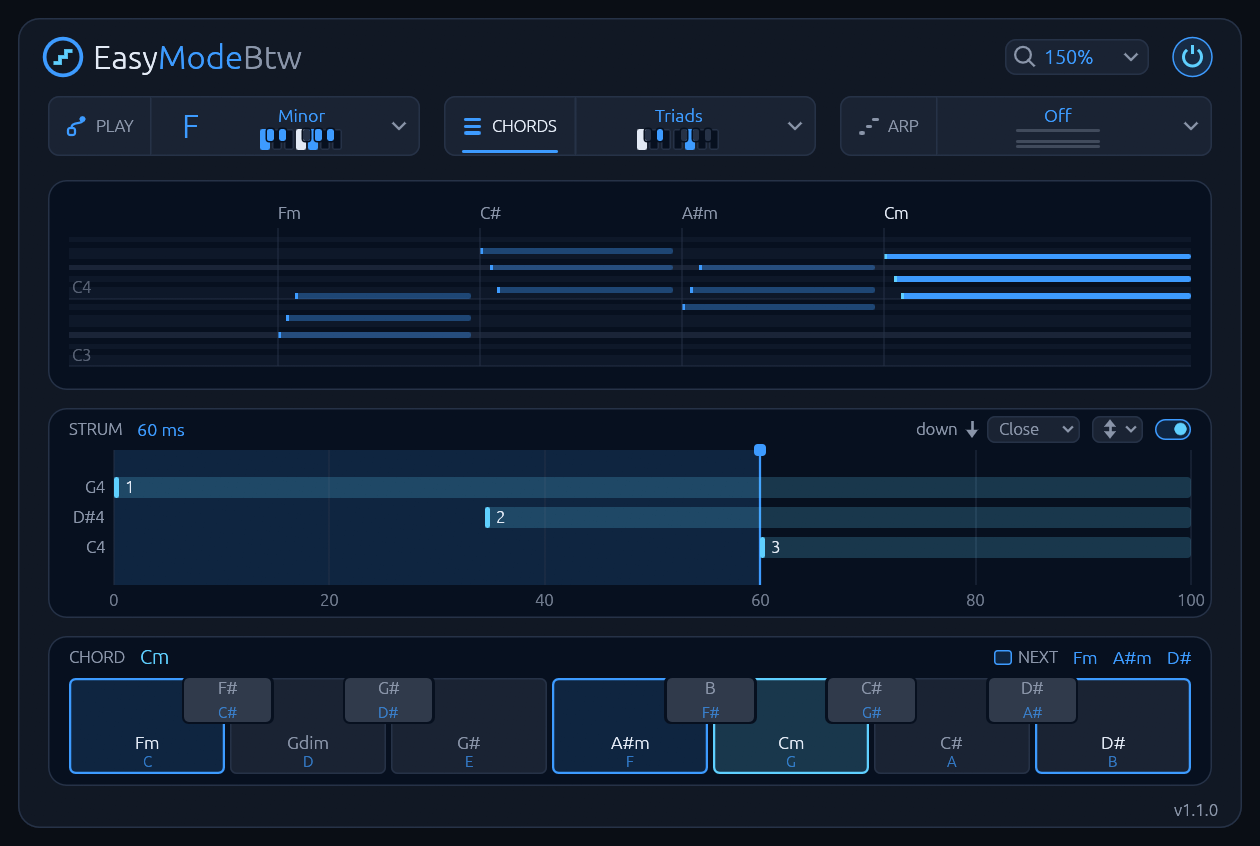
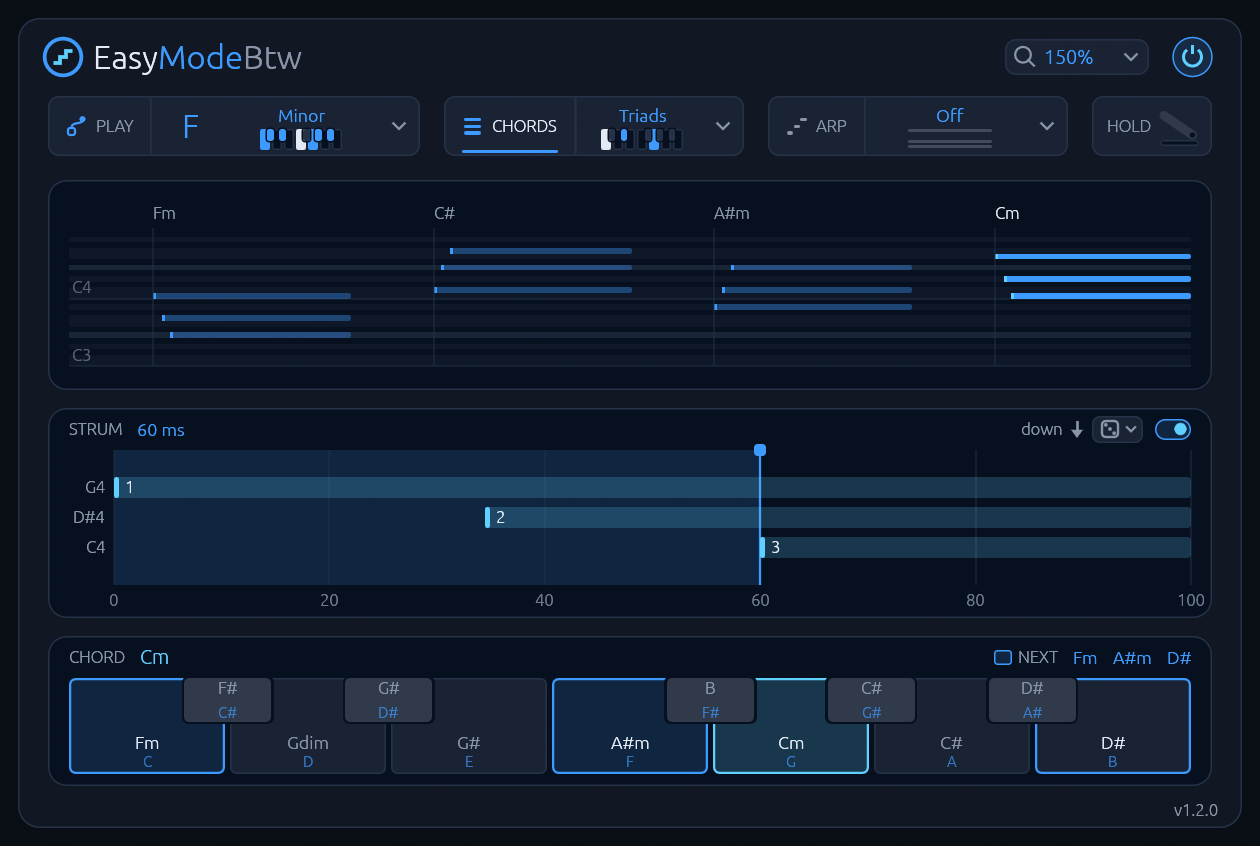
1.2.0: random strum, HOLD on every page, SWING, the selector lists
README and manual for 1.2.0. The three pages retaken, and new shots
of the PLAY, CHORDS and ARP selector lists in the manual.

diff --git a/manual.md b/manual.md
@@ -4,7 +4,7 @@
 the white keys play the notes of the scale you pick with its root on middle C, and each key can
 play a chord of the scale instead, strummed like a guitar or broken into an arpeggio on the beat.
 
-Version 1.1.0. To install it, see the [README](README.md).
+Version 1.2.0. To install it, see the [README](README.md).
 
 ## Getting started
 
@@ -23,11 +23,12 @@ PLAY page to see which notes every key sends.
 
 ## The controls
 
-The header holds the zoom select and the power switch. Below it one row holds three selectors:
-the key and scale, CHORDS and ARP. A click on a selector's icon or caption shows its page (PLAY,
-CHORDS or ARP), and a click on its value opens its list of tiles. The scales and chord sets have a
-little keyboard with their notes lit, the chord sets showing what they play on the key you last
-held; the arp orders have their stairs. Hover a tile and it performs. Under the row is the page.
+The header holds the zoom select and the power switch. Below it one row holds three selectors, the
+key and scale, CHORDS and ARP, and the HOLD pedal. A click on a selector's icon or caption shows its
+page (PLAY, CHORDS or ARP), and a click on its value opens its list of tiles. The scales and chord
+sets have a little keyboard with their notes lit, the chord sets showing what they play on the key
+you last held; the arp orders have their stairs. Hover a tile and it performs. Under the row is the
+page. Rest the pointer on any control and a tooltip says what it does.
 
 | Control | Range | Default | What it does |
 | --- | --- | --- | --- |
@@ -38,14 +39,14 @@ held; the arp orders have their stairs. Hover a tile and it performs. Under the 
 | **ARP** | Off, Up, Down, Up-Down, Converge, As Played, Chord, Random, Piano | Off | Off sends each key's note or chord at once; the others play it one note after another on the beat. |
 | **Strum switch** (CHORDS page) | On / Off | Off | Off, a chord's notes start together. |
 | **STRUM** (CHORDS page) | 0 to 100 ms | 20 ms | How long a three-note chord takes to strum, first note to last. Drag on the strum display to set it. |
-| **Strum direction** (CHORDS page) | Up and down, Up, Down | Up and down | Which way the strums go. |
-| **Strum voicing** (CHORDS page) | Close, Guitar | Close | How a strummed chord is laid out. |
+| **Strum direction** (CHORDS page) | Up and down, Up, Down, Random | Up and down | Which way the strums go. Random, the dice, tosses it for each strum. |
 | **RATE** (ARP page) | 1/4, 1/8., 1/8, 1/8T, 1/16, 1/16T, 1/32 | 1/16 | How far apart the arp's steps are. |
 | **RANGE** (ARP page) | 1 to 4 | 1 | How many times the run plays, each time higher. |
 | **STEP** (ARP page) | Octave, 2nd, 3rd, 4th, 5th, 6th | Octave | How far each repeat climbs: an octave, or that far up the scale, so it never leaves the key. |
 | **GATE LENGTH** (ARP page) | 5 to 100 % | 50 % | How long each note lasts, as a share of its step. 100 % lasts until the next note. |
-| **HOLD** (ARP page, the sustain pedal) | On / Off | Off | Let go and the arp plays on, until the next chord you play after letting every key go. |
-| **Rhythm shelf** (ARP page) | Straight and 12 rhythms | | Loads a rhythm into the step ring. |
+| **SWING** (ARP page) | Off, 54 %, 58 %, 62 %, 66 %, 71 % | Off | Pushes every second step later. 66 % is about a triplet feel. |
+| **HOLD** (the sustain pedal, right of ARP) | On / Off | Off | Let go and what the keys play goes on, until your next press with every key up replaces it. In every mode. |
+| **Rhythm shelf** (ARP page) | Straight and 25 rhythms | | Loads a rhythm into the step ring. |
 | **Step ring** (ARP page) | 1 to 32 steps | 16, all playing | Which steps play and how loud. Saved with the project. |
 | **Zoom** (header) | 100 to 200 % | 100 % | Sizes the window. |
 
@@ -73,6 +74,11 @@ octave for the same reach, which makes fast runs easy.
 **Chromatic**, where a new instance starts, plays every key, black ones too, each its own note moved
 so middle C plays the root: in C, the keyboard as it is.
 
+Click the value on the PLAY selector for its list: the twelve keys along the top, and a tile for
+each scale, naming its notes in your key and lighting them on a little keyboard.
+
+![The PLAY selector's list in F: the twelve keys and a tile for every scale](images/scales-list.png)
+
 ### Chords
 
 With CHORDS on, each key plays a chord built on its note.
@@ -93,7 +99,12 @@ and three chords that would sound good next are lit on theirs and named after NE
 and a black key play the same chord, the white one lights. Click a key on the map to hear its
 chord, in the octave of the last note you played: near its top it plays soft, near its foot loud.
 
-![The CHORDS page in F minor, triads strummed over 60 ms](images/chords.png)
+![The CHORDS page in F minor, triads strummed over 60 ms with the direction on the dice](images/chords.png)
+
+The list on the CHORDS selector has a tile for each chord set, showing what it plays on the key you
+last held, so you can compare them before you choose.
+
+![The CHORDS selector's list after E3 in F minor: what every chord set plays on that key](images/chords-list.png)
 
 ### Strum
 
@@ -102,10 +113,8 @@ guitarist strums. STRUM is a three-note chord's strum; more notes take longer, f
 high the notes come evenly; high to low they speed up, as an up stroke does. Start around 20 to
 40 ms for a soft strum and 60 to 100 ms for a slow, harp-like one.
 
-The direction select picks up and down in turn, only up or only down. The voicing select lays
-each chord out **Close**, in root position, or as a **Guitar** grips it: the root low in the
-bass, then the fifth, the root or seventh, the third and the fifth again. The strum only delays
-notes, so it adds no latency.
+The direction select picks up and down in turn, only up, only down, or the dice: each strum goes up
+or down at random, over the length you set. The strum only delays notes, so it adds no latency.
 
 ### Arpeggiator
 
@@ -113,31 +122,46 @@ With ARP on, each key's note, or with CHORDS its chord, plays one note after ano
 beat. While the transport stands it runs at the host's tempo from the first key.
 
 - **Up, Down, Up-Down, Converge, As Played, Random:** the chord's notes in that order.
-- **Chord:** the whole chord on every step; with the strum on, each step is strummed, up and down
-  in turn, like a strumming hand.
+- **Chord:** the whole chord on every step; with the strum on, each step is strummed the way the
+  direction select says, up and down in turn like a strumming hand to begin with. On the dice, each
+  step tosses its own.
 - **Piano:** the way pop pianists break a chord: root, fifth, octave, then the third and fifth
   above, weaving back down, the top note loudest.
+
+The list on the ARP selector draws each order as stairs. Hover one and it performs.
+
+![The ARP selector's list: every order as stairs, Piano performing under the pointer](images/arp-list.png)
 
 RANGE plays the run up to four times, each time higher by STEP. A chord played a little late still
 starts on its root.
 
 The **ARP page** shows the stairs: what the arp plays over one turn of its rhythm, a ball hopping
-from note to note with the note's name and the ring's rests as gaps. RATE, RANGE, STEP and GATE
-LENGTH are in their header: click one for its menu, or drag it up and down, or scroll. Drag the end
-of any note to set GATE LENGTH.
+from note to note with the note's name and the ring's rests as gaps. RATE, RANGE, STEP, GATE LENGTH
+and SWING are in their header: click one for its menu, or drag it up and down, or scroll. Drag the
+end of any note to set GATE LENGTH, and click a dot under the stairs to add that step to the rhythm
+or take it out.
 
 Beside the stairs is the step ring. Click a step to turn it on or off, drag it towards the centre
 to make it softer and away to make it louder, and double-click it for full. Drag around the ring
 elsewhere to turn the rhythm, and drag the number of steps up or down to change it. The shelf of
 tiny rings loads a pattern into it: hover one to see it over the big ring with its name, and click
-to load it. It has Straight, eight of the commonest broken-chord bars in pop piano, and the
-tresillo, cinquillo, bossa and bell rhythms.
+to load it. Its first row has Straight, eight of the commonest broken-chord bars in pop piano, and
+the tresillo, cinquillo, bossa and bell rhythms. Its second row has thirteen more, most of them
+traditional rhythms from around the world, from Cumbia (4 steps) to Central Africa (16); each one's
+tooltip says where it comes from.
 
 Below are the keys from the CHORDS page, playable with the mouse, with the chords to play next lit
-on them; with CHORDS Off each key names the note it plays. HOLD is the sustain pedal beside them:
-click to stomp it, and it stays down.
+on them; with CHORDS Off each key names the note it plays. With ARP Off these keys are off, as the
+CHORDS page's are with CHORDS Off.
 
-![The ARP page playing Up-Down over two octaves](images/arp.png)
+![The ARP page playing Up-Down over two octaves, in the Gallop rhythm with 58 % swing](images/arp.png)
+
+### HOLD
+
+HOLD is the sustain pedal at the end of the selector row, on every page. Click to stomp it, and it
+stays down. Let go of the keys and what they play goes on, until your next press with every key up
+replaces it. With ARP on the arp plays on; with ARP Off the notes and chords you let go keep
+sounding.
 
 ### The PLAY page
 
@@ -153,10 +177,12 @@ it records the plugin's output.
 - **Latency:** none. The strum and the arp only delay notes.
 - **Automation:** KEY, SCALE, CHORDS and ARP changes take effect at the exact sample they are drawn
   at.
-- **Saved projects:** a project saved with 1.0 keeps its settings, but its chords now play in root
-  position on each key's own note, so one using CHORDS sounds different. A GATE LENGTH saved above
-  100 % keeps its value until you touch the control. A project saved with 0.1.x plays as before,
-  except one saved with SCALE on Chromatic, which now plays every key.
+- **Saved projects:** a project saved with 1.1 keeps its settings, but one with the strum on Guitar
+  now plays Close, and one with HOLD on and ARP Off now holds its notes. A project saved with 1.0
+  has the same changes, and its chords now play in root position on each key's own note, so one
+  using CHORDS sounds different. A GATE LENGTH saved above 100 % keeps its value until you touch the
+  control. A project saved with 0.1.x plays as before, except one saved with SCALE on Chromatic,
+  which now plays every key.
 - **Changing settings while you play:** a held note keeps sounding until you let go of its key, and
   then the right notes end, so nothing gets stuck. Switching ARP or the power switch ends what
   sounds; press the keys again.

diff --git a/README.md b/README.md
@@ -22,8 +22,9 @@ It runs natively on Linux, with no network access and no telemetry.
 - **14 scales on 12 keys:** Chromatic, Major, Natural, Harmonic and Melodic Minor, Dorian, Phrygian, Lydian, Mixolydian, Locrian, Major and Minor Pentatonic, Blues and Whole Tone.
 - **Chords on every key:** Triads, Sevenths, Sus2, Sus4, Add9 or Power, or the chord Jazz, Bossa, Soul or Folk most often puts on that note. The black keys play borrowed major chords.
 - **A key map that suggests:** each key names the chord it plays, and three good chords to play next light up.
-- **Strum:** a chord's notes start one after another, up to 100 ms, up and down in turn or one way, voiced close or as a guitar grips it. No added latency.
-- **Arpeggiator on the host's beat:** eight patterns, from Up and Down to a pop-piano figure, 1/4 to 1/32 with dotted and triplet rates, up to 4 repeats climbing an octave or up the scale, stairs that show what it plays, HOLD on a sustain pedal, and a 16-step rhythm ring with a shelf of rhythms.
+- **Strum:** a chord's notes start one after another, up to 100 ms, up and down in turn, one way, or each strum at random. No added latency.
+- **Arpeggiator on the host's beat:** eight patterns, from Up and Down to a pop-piano figure, 1/4 to 1/32 with dotted and triplet rates, up to 4 repeats climbing an octave or up the scale, swing, stairs that show what it plays, and a rhythm ring of up to 32 steps with a shelf of 26 rhythms.
+- **HOLD on a sustain pedal:** let go and what the keys play goes on, in every mode.
 - **See what you play:** the PLAY page draws a thread from every key you hold to the notes it sends. Click the keys with the mouse to try everything without a keyboard.
 - **No stuck notes:** a note-off always ends the notes its note-on started, even if you change the key, scale or chords while holding it.
 - **Everything else passes through:** pitch bend, mod wheel and other CCs, channel pressure and program changes are untouched.
@@ -36,10 +37,10 @@ Download the latest version from the [Releases page](https://github.com/rmnhofma
 or with these commands:
 
 ```bash
-curl -LO https://github.com/rmnhofma/EasyModeBtw-release/releases/download/v1.1.0/EasyModeBtw-1.1.0-linux-x86_64.tar.gz
-curl -LO https://github.com/rmnhofma/EasyModeBtw-release/releases/download/v1.1.0/EasyModeBtw-1.1.0-linux-x86_64.tar.gz.sha256
-sha256sum -c EasyModeBtw-1.1.0-linux-x86_64.tar.gz.sha256 && tar xzf EasyModeBtw-1.1.0-linux-x86_64.tar.gz
-cd EasyModeBtw-1.1.0-linux-x86_64
+curl -LO https://github.com/rmnhofma/EasyModeBtw-release/releases/download/v1.2.0/EasyModeBtw-1.2.0-linux-x86_64.tar.gz
+curl -LO https://github.com/rmnhofma/EasyModeBtw-release/releases/download/v1.2.0/EasyModeBtw-1.2.0-linux-x86_64.tar.gz.sha256
+sha256sum -c EasyModeBtw-1.2.0-linux-x86_64.tar.gz.sha256 && tar xzf EasyModeBtw-1.2.0-linux-x86_64.tar.gz
+cd EasyModeBtw-1.2.0-linux-x86_64
 ```
 
 Install for your user:
